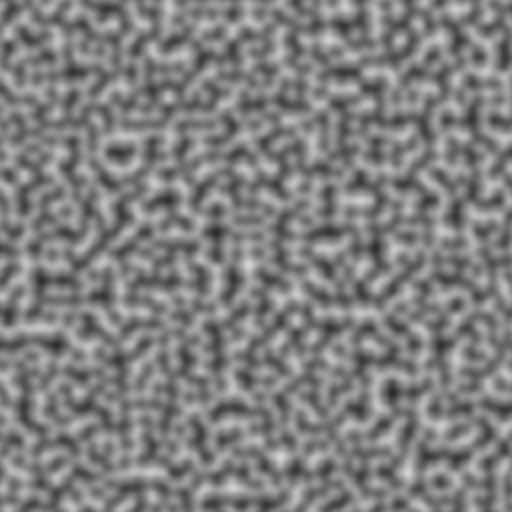
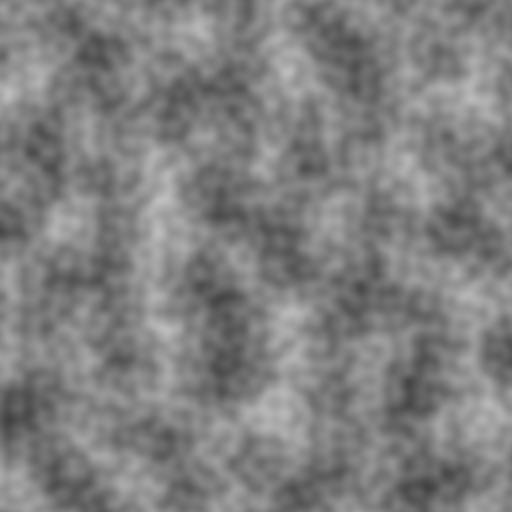
Extended perlin noise test

diff --git a/src/test/java/com/lexinon/facharbeit/test/PerlinTest.java b/src/test/java/com/lexinon/facharbeit/test/PerlinTest.java
@@ -13,29 +13,53 @@ import java.security.NoSuchAlgorithmException;
 
 public class PerlinTest {
 
-    public static void main(String[] args) throws IOException, NoSuchAlgorithmException {
-        File f = new File(args[0]);
+    public static void main(String[] args) throws IOException {
+        int textureSideLength = 512;
 
-        int textureSideLength = Integer.parseInt(args[1]);
-        int gridPointDistance = Integer.parseInt(args[2]);
-        int amountGridPoints = ceilDiv(textureSideLength + 1, gridPointDistance);
-        int seed = Integer.parseInt(args[3]);
+        float[] texture = new float[textureSideLength * textureSideLength];
+        float weight = 0;
+        weight += noise(textureSideLength, 8, 0, texture, 2f);
+        weight += noise(textureSideLength, 32, 0, texture, 1f);
+
+        for(int x = 0; x < textureSideLength; x++) {
+            for(int y = 0; y < textureSideLength; y++) {
+                texture[getIndexByPos(x, y, textureSideLength)] = texture[getIndexByPos(x, y, textureSideLength)] / weight;
+            }
+        }
+
+        BufferedImage image = new BufferedImage(textureSideLength, textureSideLength, BufferedImage.TYPE_INT_ARGB);
+        for(int x = 0; x < textureSideLength; x++) {
+            for(int y = 0; y < textureSideLength; y++) {
+                float value = texture[getIndexByPos(x, y, textureSideLength)];
+                image.setRGB(x, y, new Color(value / 2 + 0.5f, value / 2 + 0.5f, value / 2 + 0.5f).getRGB());
+            }
+        }
+        ImageIO.write(image, "png", new File("perlin.png"));
+    }
+
+    public static float noise(int textureSideLength, float frequency, int seed, float[] texture, float weight) {
+        float gridPointDistance = 1f / frequency * textureSideLength;
+        int amountGridPoints = ceilDiv(textureSideLength, gridPointDistance) + 1;
 
         int gridPoints = amountGridPoints * amountGridPoints;
         Vector2f[] gradients = new Vector2f[gridPoints];
 
-        MessageDigest md = MessageDigest.getInstance("SHA256");
+        MessageDigest md = null;
+        try {
+            md = MessageDigest.getInstance("SHA256");
+        } catch (NoSuchAlgorithmException e) {
+            e.printStackTrace();
+        }
 
         for(int i = 0; i < gridPoints; i++) {
             float angle = hash(i, seed, md) % 36_000f / 18_000f * (float) Math.PI;
             gradients[i] = new Vector2f((float) Math.sin(angle), (float) Math.cos(angle));
         }
 
-        BufferedImage image = new BufferedImage(textureSideLength, textureSideLength, BufferedImage.TYPE_INT_ARGB);
         for(int x = 0; x < textureSideLength; x++) {
             for(int y = 0; y < textureSideLength; y++) {
-                int gridPointX = x / gridPointDistance;
-                int gridPointY = y / gridPointDistance;
+                int gridPointX = x / (int) gridPointDistance;
+                int gridPointY = y / (int) gridPointDistance;
                 Vector2f gradient1 = gradients[getIndexByPos(gridPointX, gridPointY, amountGridPoints)];
                 Vector2f gradient2 = gradients[getIndexByPos(gridPointX + 1, gridPointY, amountGridPoints)];
                 Vector2f gradient3 = gradients[getIndexByPos(gridPointX + 1, gridPointY + 1, amountGridPoints)];
@@ -52,11 +76,11 @@ public class PerlinTest {
                 float f1 = s4 * interpolationFunction(1 - relX) + s3 * interpolationFunction(relX);
                 float fRes = f0 * interpolationFunction(1 - relY) + f1 * interpolationFunction(relY);
 
-                image.setRGB(x, y, new Color(fRes / 2 + 0.5f, fRes / 2 + 0.5f, fRes / 2 + 0.5f).getRGB());
+                texture[getIndexByPos(x, y, textureSideLength)] += fRes * weight;
+                //image.setRGB(x, y, new Color(fRes / 2 + 0.5f, fRes / 2 + 0.5f, fRes / 2 + 0.5f).getRGB());
             }
         }
-
-        ImageIO.write(image, "png", f);
+        return weight;
     }
 
     private static int getIndexByPos(int x, int y, int length) {
